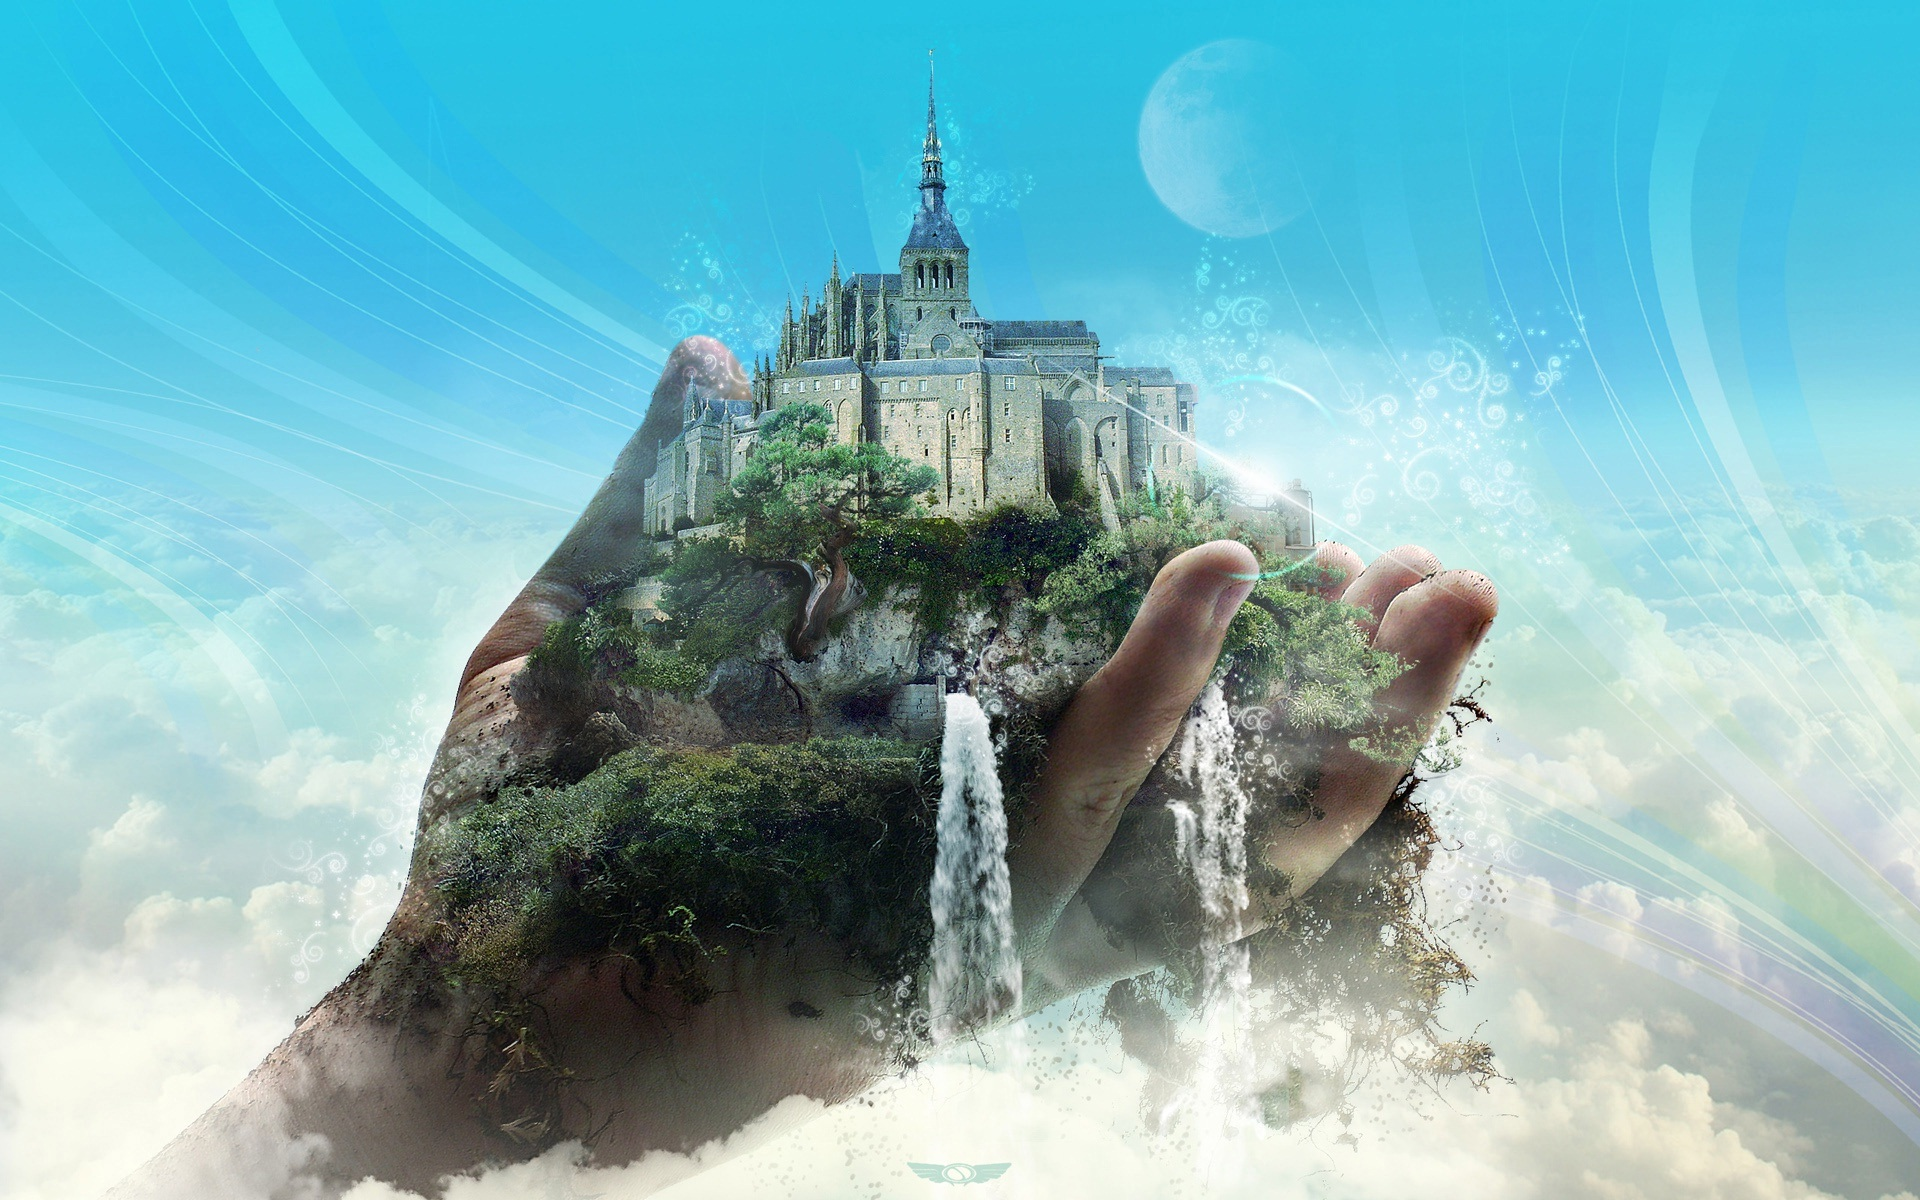
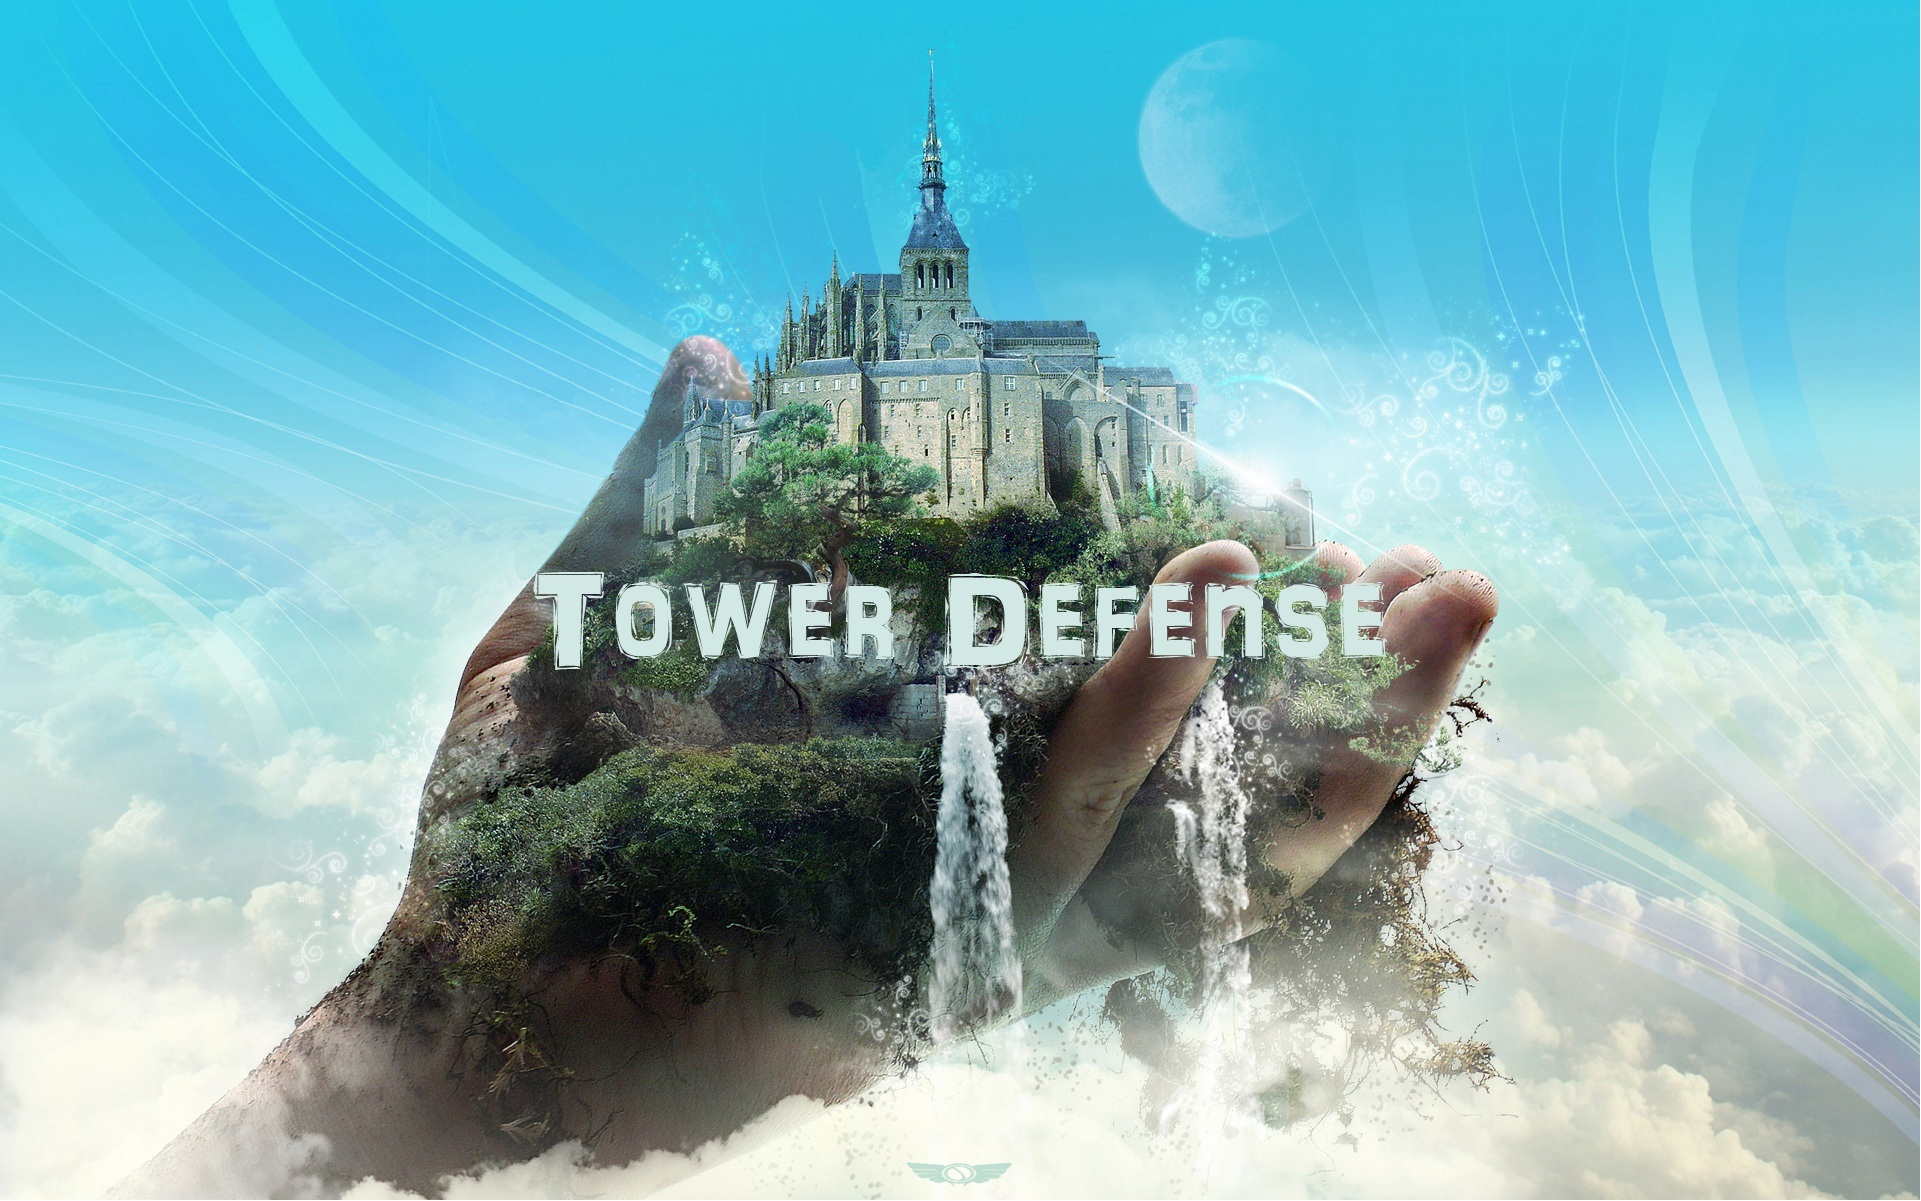
Dialogue box for username already created and updated background image

diff --git a/CSCI201_FinalProject/src/main/LogInGUI.java b/CSCI201_FinalProject/src/main/LogInGUI.java
@@ -72,53 +72,7 @@ public class LogInGUI extends JFrame
 		
 		backgroundPanel = new BGPanel();
 		backgroundPanel.setLayout(new BorderLayout());
-	/*
-		JPanel northPanel = new JPanel();
-		JLabel tdLabel = new JLabel("Tower Defense");
-		tdLabel.setFont(new Font("Arial", Font.BOLD, 30));
-		northPanel.add(tdLabel);
-		northPanel.setOpaque(false);
-		
-		JPanel centerPanel = new JPanel();
-		centerPanel.setOpaque(false);
-		
-		JPanel southPanel = new JPanel();
-		southPanel.setLayout(new BoxLayout(southPanel, BoxLayout.X_AXIS));
-		southPanel.setPreferredSize(new Dimension((int)(width * 0.4), (int)(height * 0.3)));
-		JPanel swPanel = new JPanel();
-		swPanel.setLayout(new BoxLayout(swPanel, BoxLayout.Y_AXIS));
-		JPanel sw1Panel = new JPanel();
-		JPanel sw2Panel = new JPanel();
-		swPanel.setOpaque(false);
-		sw1Panel.setOpaque(false);
-		sw2Panel.setOpaque(false);
-		sw1Panel.add(new JLabel("username:"));
-		sw1Panel.add(usernameJTF);
-		sw2Panel.add(new JLabel("password:"));
-		sw2Panel.add(passwordJPF);
-		swPanel.add(Box.createGlue());
-		swPanel.add(sw1Panel);
-		swPanel.add(sw2Panel);
-		swPanel.add(Box.createGlue());
-		southPanel.add(swPanel);
-		southPanel.setOpaque(false);
-		
-		JPanel sePanel = new JPanel();
-		sePanel.setOpaque(false);
-		sePanel.setLayout(new BoxLayout(sePanel, BoxLayout.Y_AXIS));
-		sePanel.add(Box.createGlue());
-		sePanel.add(userLogInButton);
-		sePanel.add(Box.createGlue());
-		sePanel.add(guestLogInButton);
-		sePanel.add(Box.createGlue());
-		sePanel.add(createUserButton);
-		sePanel.add(Box.createGlue());
-		southPanel.add(sePanel);
-		backgroundPanel.add(northPanel, BorderLayout.NORTH);
-		backgroundPanel.add(centerPanel, BorderLayout.CENTER);
-		backgroundPanel.add(southPanel, BorderLayout.SOUTH);
-		*/
-		
+
 		JPanel contentPanel = new LoginPanel();
 		FlowLayout bgPanelLayout = new FlowLayout(FlowLayout.CENTER);
 		bgPanelLayout.setVgap((int)(height *.6));
@@ -176,6 +130,9 @@ public class LogInGUI extends JFrame
 					User newUser = DataBaseUtils.createUser(userID);
 					new GameLobbyGUI(newUser);
 					setVisible(false);
+				}
+				else{
+					JOptionPane.showMessageDialog(null, "Username already exists, try again!");
 				}
 				//calls DatabaseUtils.createNewUser
 				//if true, creates new user and logs in
